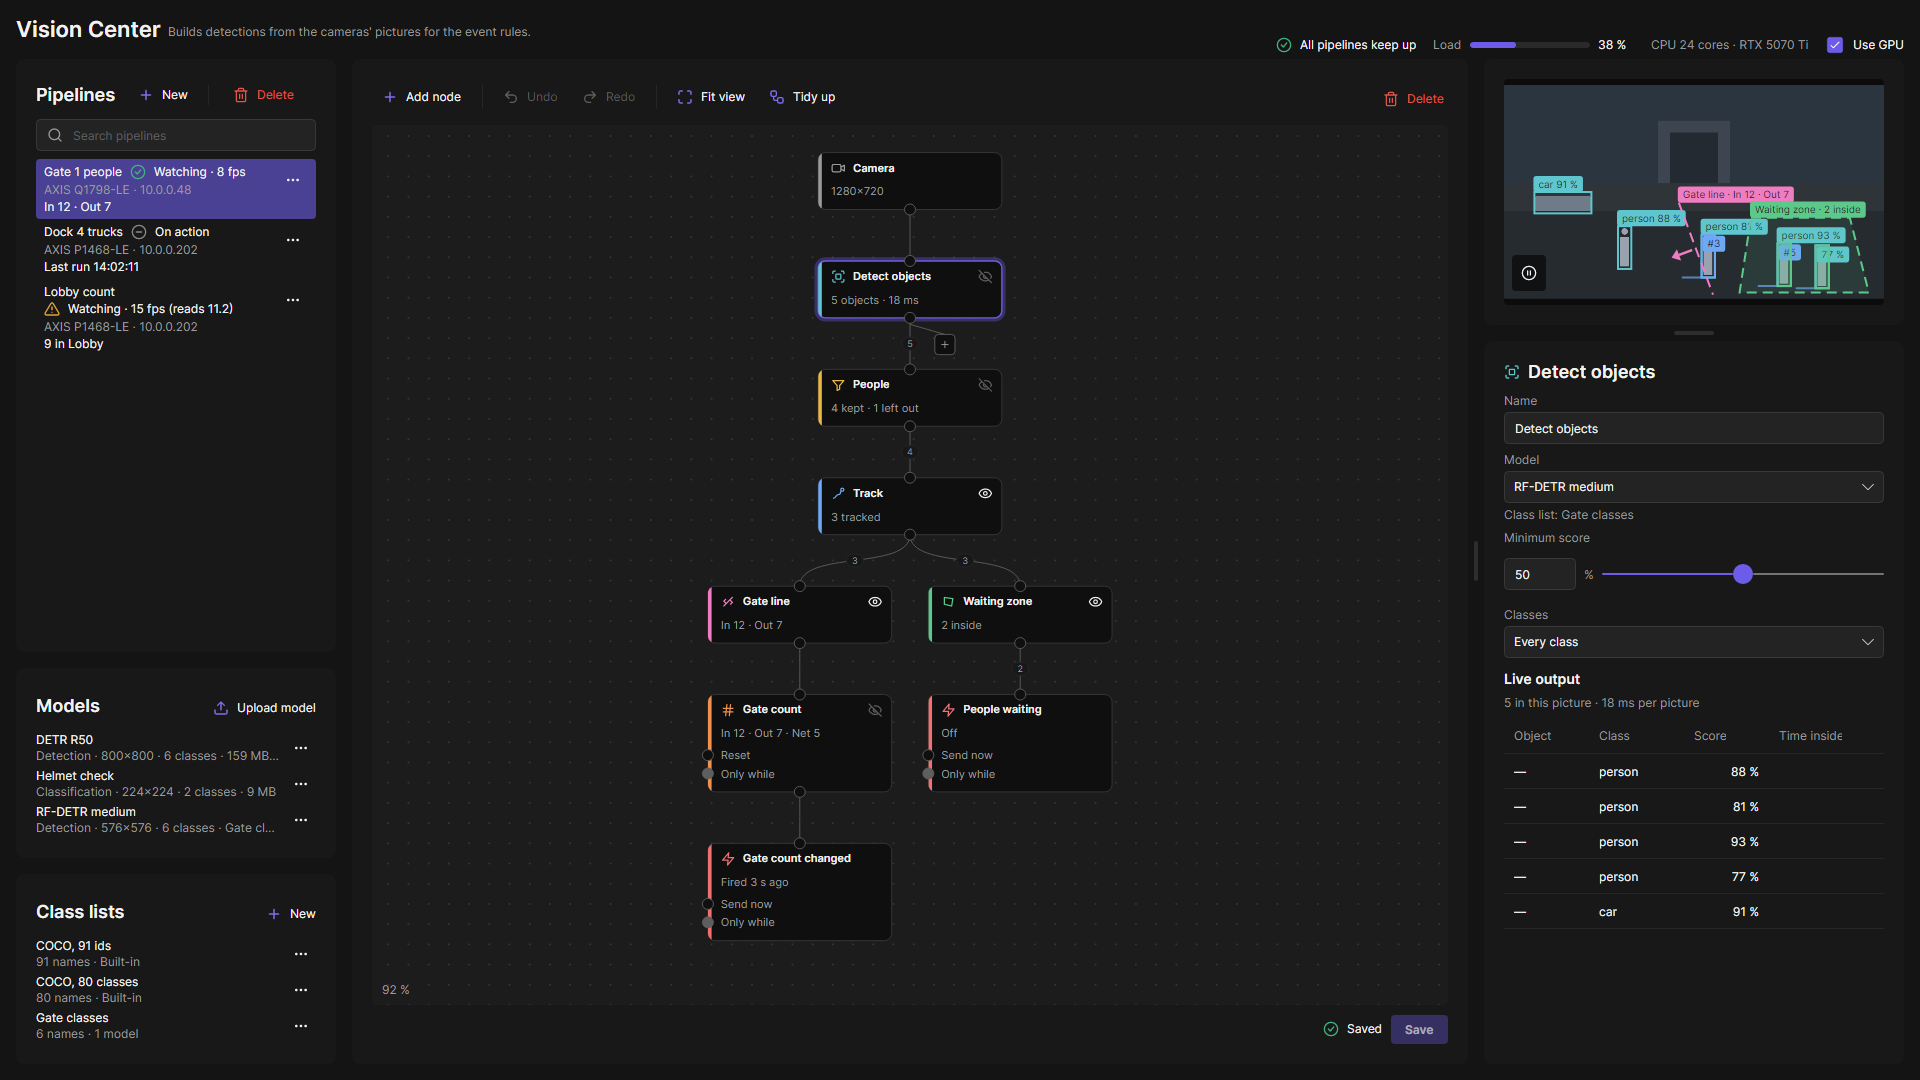
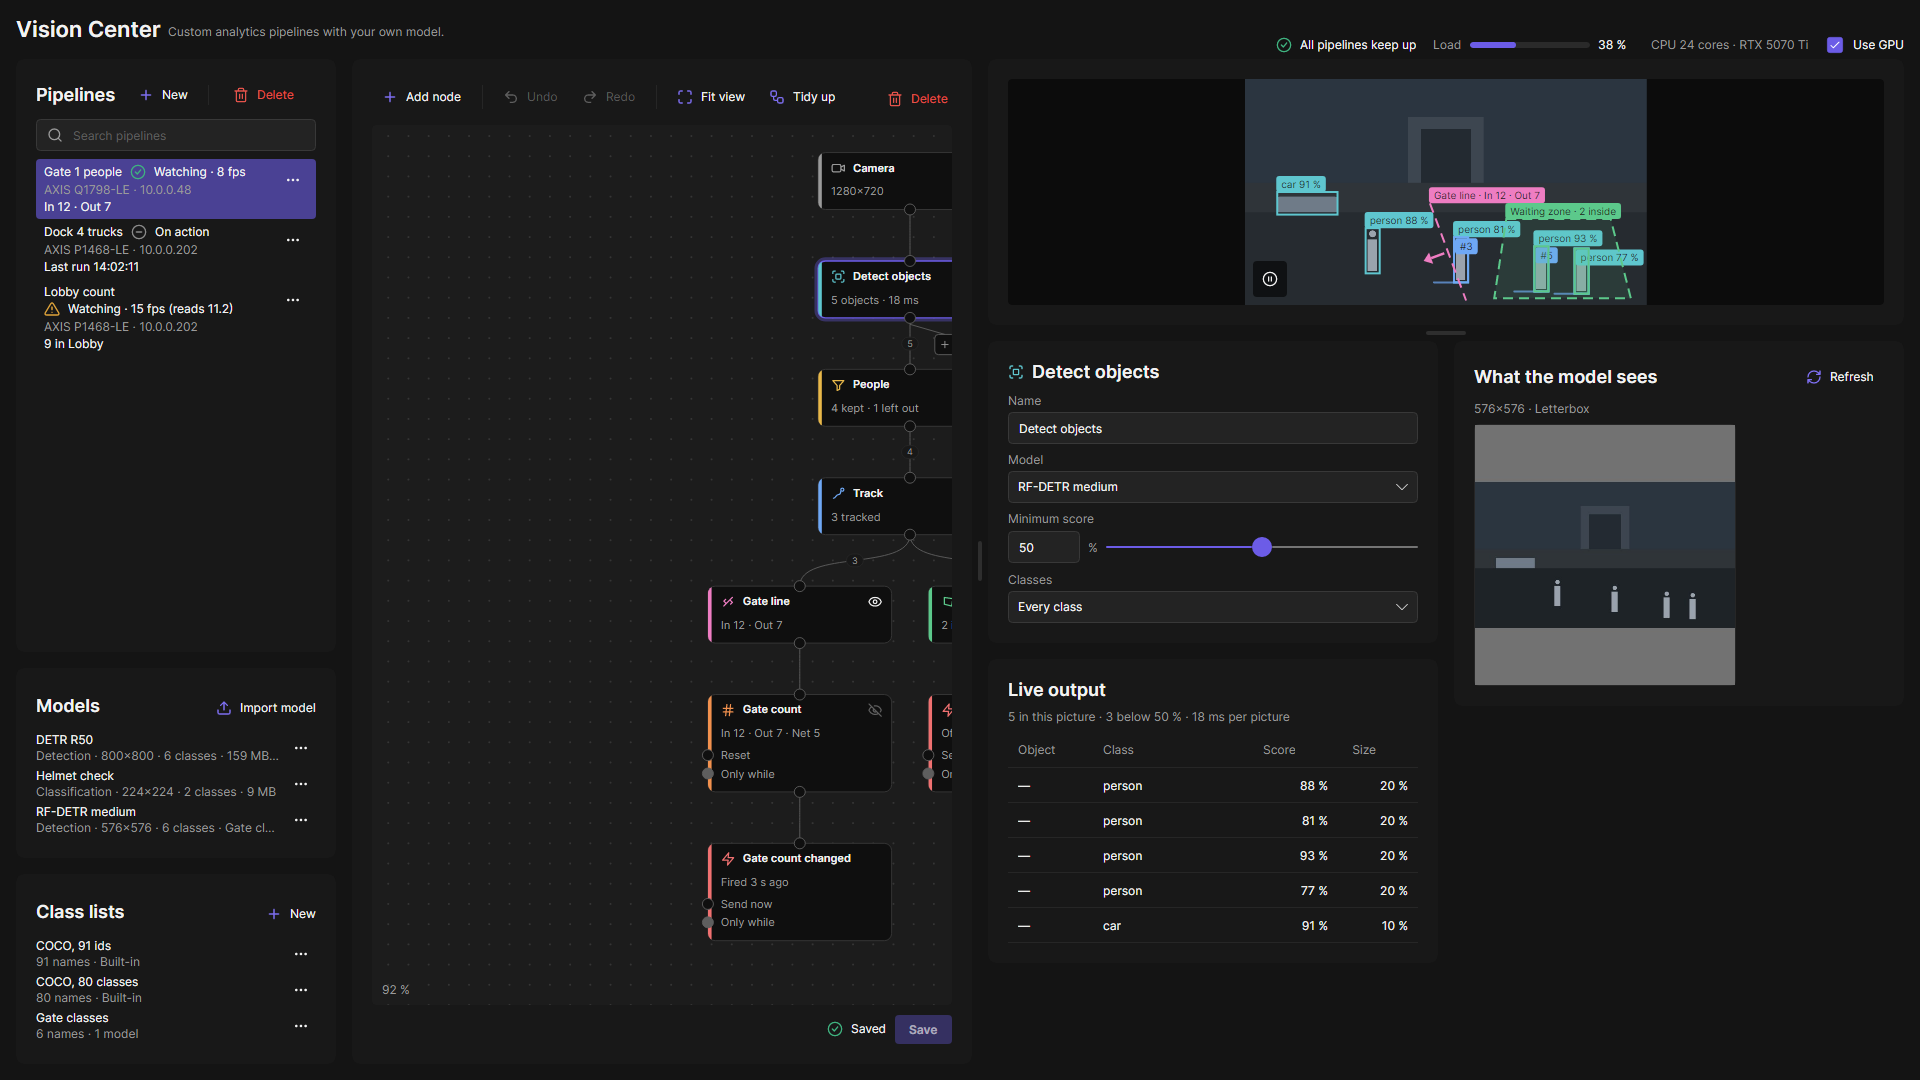
feat(vision): node panel as cards that use the width, fields flow instead of growing; Detect objects counts the objects below its minimum score in the preview

diff --git a/src/Oadm.Sdk.Client/Controls/FlowColumns.cs b/src/Oadm.Sdk.Client/Controls/FlowColumns.cs
@@ -1,0 +1,147 @@
+using Avalonia;
+using Avalonia.Controls;
+
+namespace Oadm.Sdk.Client.Controls;
+
+/// <summary>How <see cref="FlowColumns"/> places its children.</summary>
+public enum FlowPacking
+{
+    /// <summary>Row by row, left to right (form fields: the reading order stays).</summary>
+    Rows,
+
+    /// <summary>Each child into the shortest column (cards of different heights, no gaps).</summary>
+    Columns,
+}
+
+/// <summary>
+/// A panel that uses the width it gets instead of stretching its children: as many equal columns as fit
+/// <see cref="MinColumnWidth"/> (at most <see cref="MaxColumns"/>, never more than the visible children), each child as wide as
+/// its column. A narrow place gives one column, a wide one several, like a flex wrap. Invisible children take no room.
+/// Used by the node panel of Vision Center (its cards, and the fields in its forms).
+/// </summary>
+public sealed class FlowColumns : Panel
+{
+    public static readonly StyledProperty<double> MinColumnWidthProperty =
+        AvaloniaProperty.Register<FlowColumns, double>(nameof(MinColumnWidth), 320);
+
+    public static readonly StyledProperty<int> MaxColumnsProperty =
+        AvaloniaProperty.Register<FlowColumns, int>(nameof(MaxColumns), 4);
+
+    public static readonly StyledProperty<double> ColumnSpacingProperty =
+        AvaloniaProperty.Register<FlowColumns, double>(nameof(ColumnSpacing), 12);
+
+    public static readonly StyledProperty<double> RowSpacingProperty =
+        AvaloniaProperty.Register<FlowColumns, double>(nameof(RowSpacing), 8);
+
+    public static readonly StyledProperty<FlowPacking> PackingProperty =
+        AvaloniaProperty.Register<FlowColumns, FlowPacking>(nameof(Packing));
+
+    static FlowColumns() =>
+        AffectsMeasure<FlowColumns>(MinColumnWidthProperty, MaxColumnsProperty, ColumnSpacingProperty, RowSpacingProperty, PackingProperty);
+
+    /// <summary>A column is never narrower than this (unless the whole panel is).</summary>
+    public double MinColumnWidth
+    {
+        get => GetValue(MinColumnWidthProperty);
+        set => SetValue(MinColumnWidthProperty, value);
+    }
+
+    public int MaxColumns
+    {
+        get => GetValue(MaxColumnsProperty);
+        set => SetValue(MaxColumnsProperty, value);
+    }
+
+    public double ColumnSpacing
+    {
+        get => GetValue(ColumnSpacingProperty);
+        set => SetValue(ColumnSpacingProperty, value);
+    }
+
+    public double RowSpacing
+    {
+        get => GetValue(RowSpacingProperty);
+        set => SetValue(RowSpacingProperty, value);
+    }
+
+    public FlowPacking Packing
+    {
+        get => GetValue(PackingProperty);
+        set => SetValue(PackingProperty, value);
+    }
+
+    /// <summary>The number of columns at <paramref name="width"/> for <paramref name="visible"/> children.</summary>
+    public static int ColumnsFor(double width, double minColumnWidth, double spacing, int maxColumns, int visible)
+    {
+        if (visible <= 1 || double.IsInfinity(width) || double.IsNaN(width))
+        {
+            return 1;
+        }
+
+        var fit = (int)Math.Floor((width + spacing) / (Math.Max(1, minColumnWidth) + spacing));
+        return Math.Clamp(fit, 1, Math.Max(1, Math.Min(maxColumns, visible)));
+    }
+
+    protected override Size MeasureOverride(Size availableSize) => Layout(availableSize, arrange: false);
+
+    protected override Size ArrangeOverride(Size finalSize)
+    {
+        Layout(finalSize, arrange: true);
+        return finalSize;
+    }
+
+    private Size Layout(Size size, bool arrange)
+    {
+        var visible = Children.Where(c => c.IsVisible).ToList();
+        var columns = ColumnsFor(size.Width, MinColumnWidth, ColumnSpacing, MaxColumns, visible.Count);
+        var width = double.IsInfinity(size.Width)
+            ? double.PositiveInfinity
+            : Math.Max(0, (size.Width - (ColumnSpacing * (columns - 1))) / columns);
+        var heights = new double[columns];
+        var widest = 0.0;
+        var rowTop = 0.0;
+        var rowHeight = 0.0;
+        for (var i = 0; i < visible.Count; i++)
+        {
+            var child = visible[i];
+            if (!arrange)
+            {
+                child.Measure(new Size(width, double.PositiveInfinity));
+            }
+
+            var desired = child.DesiredSize;
+            widest = Math.Max(widest, desired.Width);
+            int column;
+            double top;
+            if (Packing == FlowPacking.Columns)
+            {
+                column = Array.IndexOf(heights, heights.Min());
+                top = heights[column] == 0 ? 0 : heights[column] + RowSpacing;
+                heights[column] = top + desired.Height;
+            }
+            else
+            {
+                column = i % columns;
+                if (column == 0 && i > 0)
+                {
+                    rowTop += rowHeight + RowSpacing;
+                    rowHeight = 0;
+                }
+
+                top = rowTop;
+                rowHeight = Math.Max(rowHeight, desired.Height);
+                heights[column] = rowTop + rowHeight;
+            }
+
+            if (arrange)
+            {
+                var x = column * ((double.IsInfinity(width) ? desired.Width : width) + ColumnSpacing);
+                child.Arrange(new Rect(x, top, double.IsInfinity(width) ? desired.Width : width, desired.Height));
+            }
+        }
+
+        var total = visible.Count == 0 ? 0 : heights.Max();
+        var used = double.IsInfinity(size.Width) ? widest : size.Width;
+        return new Size(visible.Count == 0 ? 0 : used, total);
+    }
+}

diff --git a/plugins/Oadm.Plugins.Vision/Nodes/ModelNodes.cs b/plugins/Oadm.Plugins.Vision/Nodes/ModelNodes.cs
@@ -25,30 +25,42 @@ internal sealed class DetectNode : VisionNode
     /// <summary>The model it runs on the whole picture (the frame is decoded only as large as its input needs).</summary>
     public VisionModel Model => _model;
 
-    public DetectNode(PipelineNode node, PortKind? input, VisionModel model) : base(node, NodeKinds.DetectKind, input)
+    /// <param name="countBelow">The page's preview: the model call goes down to <see cref="VisionLimits.BelowScoreFloor"/>
+    /// and the output counts the objects below the minimum score (saved pipelines never do: no extra work).</param>
+    public DetectNode(PipelineNode node, PortKind? input, VisionModel model, bool countBelow = false) : base(node, NodeKinds.DetectKind, input)
     {
         _model = model;
         _minScore = (NodeSettings.Number(VisionGraph.Setting(node, NodeKinds.MinScoreKey)) ?? 50) / 100;
         _classes = NodeKindsSettings.ClassSet(node);
+        _floor = countBelow ? Math.Min(_minScore, VisionLimits.BelowScoreFloor) : _minScore;
+        _countBelow = countBelow;
     }
+
+    private readonly double _floor;
+    private readonly bool _countBelow;
 
     /// <summary>The model call on the frame's picture, measured (also started early, before the frame's turn).</summary>
     public Task<(IReadOnlyList<Detection> Detections, double Ms)> CallAsync(FrameContext frame) =>
-        MeasureAsync(frame, _model, () => frame.Inference.DetectAsync(_model, frame.Frame, _minScore, frame.Ct));
+        MeasureAsync(frame, _model, () => frame.Inference.DetectAsync(_model, frame.Frame, _floor, frame.Ct));
 
     public override async ValueTask<NodeOutput> RunAsync(NodeOutput? input, FrameContext frame)
     {
         var call = frame.Prefetched?.GetValueOrDefault(Id) ?? CallAsync(frame);
         var (detections, ms) = await call.ConfigureAwait(false);
         var objects = new List<VisionObject>(Math.Min(detections.Count, VisionLimits.MaxObjects));
+        var below = 0;
         foreach (var d in detections)
         {
-            if (objects.Count >= VisionLimits.MaxObjects)
+            if (_classes is not null && !_classes.Contains(d.ClassName))
             {
-                break;
+                continue;
             }
 
-            if (d.Score >= _minScore && (_classes is null || _classes.Contains(d.ClassName)))
+            if (d.Score < _minScore)
+            {
+                below++;
+            }
+            else if (objects.Count < VisionLimits.MaxObjects)
             {
                 objects.Add(new VisionObject { Detection = d });
             }
@@ -59,6 +71,7 @@ internal sealed class DetectNode : VisionNode
             NodeId = Id,
             Kind = PortKind.Objects,
             Objects = objects,
+            Below = _countBelow ? below : null,
             Milliseconds = ms,
             Live = LiveText.Objects(objects.Count) + LiveText.Ms(ms),
         };

diff --git a/tests/Oadm.Plugins.Vision.Tests/Client/PageScreenshotTests.cs b/tests/Oadm.Plugins.Vision.Tests/Client/PageScreenshotTests.cs
@@ -97,11 +97,25 @@ public sealed class PageScreenshotTests
                 Headless.Pump();
                 Assert.True(view.FindControl<DataGrid>("ObjectsGrid")!.IsEffectivelyVisible);
                 Assert.Equal(5, editor.Output.Objects.Count);
+                Assert.Equal("5 in this picture · 3 below 50 % · 18 ms per picture", editor.Output.Summary);
                 await editor.ModelView.ReadAsync();
                 Headless.Pump();
                 Assert.True(view.FindControl<Border>("ModelViewPicture")!.IsEffectivelyVisible);
                 Assert.Equal("576x576 · Letterbox", editor.ModelView.Caption);
                 Headless.Capture(window, $"vision-page-detect-{suffix}.png");
+
+                // A wide right column: the cards side by side, the fields at their width instead of grown.
+                var narrow = view.RightWidth;
+                view.SetRightWidth(narrow + 700);
+                window.UpdateLayout();
+                Headless.Pump();
+                var formCard = view.FindControl<Border>("NodeFormCard")!;
+                var outputCard = view.FindControl<Border>("OutputCard")!;
+                Assert.True(view.FindControl<Border>("ModelViewCard")!.Bounds.X > formCard.Bounds.X || outputCard.Bounds.X > formCard.Bounds.X, "a card sits beside the form");
+                Headless.Capture(window, $"vision-page-detect-wide-{suffix}.png");
+                view.SetRightWidth(narrow);
+                window.UpdateLayout();
+                Headless.Pump();
 
                 // Nothing selected: the pipeline's own settings.
                 editor.Canvas.ClearSelection();

diff --git a/tests/Oadm.Plugins.Vision.Tests/Nodes/PipelineEvaluatorTests.cs b/tests/Oadm.Plugins.Vision.Tests/Nodes/PipelineEvaluatorTests.cs
@@ -192,6 +192,36 @@ public sealed class PipelineEvaluatorTests
         Assert.Equal("1 object", r.Nodes[filter].Live);
     }
 
+    // The page's preview counts the objects of the chosen classes below the minimum score, down to 10 %; a saved pipeline asks
+    // the model only for its minimum score and counts nothing.
+    [Theory]
+    [InlineData(true)]
+    [InlineData(false)]
+    public async Task Detect_in_the_preview_counts_the_objects_below_its_minimum_score(bool preview)
+    {
+        var b = new PipelineBuilder();
+        var camera = b.Add(NodeKinds.Camera);
+        var detect = b.After(camera, NodeKinds.Detect, PipelineBuilder.DetectSettings(50, "person"), show: true);
+        var h = new EvaluatorHarness(b.Build(), allNodes: preview);
+        var r = await h.RunAsync(0,
+            Det.Person(0.2, 0.9, 0.9),
+            Det.Person(0.4, 0.9, 0.3),   // below
+            Det.Person(0.6, 0.9, 0.12),  // below
+            Det.Person(0.8, 0.9, 0.05),  // under 10 %: not counted
+            Det.Car(0.5, 0.5, 0.3));     // another class
+        Assert.Single(r.Nodes[detect].Objects);
+        if (preview)
+        {
+            Assert.Equal(VisionLimits.BelowScoreFloor, h.Inference.MinScores[0], 9);
+            Assert.Equal(2, r.Nodes[detect].Below);
+        }
+        else
+        {
+            Assert.Equal(0.5, h.Inference.MinScores[0], 9);
+            Assert.Null(r.Nodes[detect].Below);
+        }
+    }
+
     [Fact]
     public async Task Detect_keeps_its_classes_and_shows_count_and_time()
     {

diff --git a/plugins/Oadm.Plugins.Vision.Client/NodeOutputViewModel.cs b/plugins/Oadm.Plugins.Vision.Client/NodeOutputViewModel.cs
@@ -169,11 +169,16 @@ public sealed partial class NodeOutputViewModel : ObservableObject
                 HasRows = Objects.Count > 0;
                 Summary = output is null ? VisionTexts.NothingYet
                     : output.Label is { } label && objects.Count == 0 ? $"{label.ClassName} {VisionTexts.Score(label.Score)}"
-                    : VisionTexts.InThisPicture(objects.Count, output.Milliseconds, node.Kind == NodeKinds.Filter ? output.Dropped.Count : null)
+                    : VisionTexts.InThisPicture(objects.Count, output.Milliseconds, node.Kind == NodeKinds.Filter ? output.Dropped.Count : null,
+                        output.Below, MinScoreOf(node))
                         + (node.Kind == NodeKinds.Filter ? VisionTexts.Sizes([.. objects.Concat(output.Dropped).Select(o => o.Detection.Box.Height)]) : string.Empty);
                 break;
         }
     }
+
+    /// <summary>A Detect objects node's minimum score in percent (50 when not set).</summary>
+    private static int? MinScoreOf(NodeViewModel node) =>
+        node.Kind == NodeKinds.Detect ? (int)Math.Round(Oadm.Plugins.Vision.Graph.NodeSettings.Number(node.Settings[NodeKinds.MinScoreKey]) ?? 50) : null;
 
     private void Note(string text)
     {

diff --git a/plugins/Oadm.Plugins.Vision.Client/VisionTexts.cs b/plugins/Oadm.Plugins.Vision.Client/VisionTexts.cs
@@ -302,10 +302,15 @@ public static class VisionTexts
             : string.Create(CultureInfo.InvariantCulture, $" · Sizes {low} to {high} %");
     }
 
-    /// <summary>The live output's first line: "5 in this picture · 18 ms per picture · 2 left out".</summary>
-    public static string InThisPicture(int count, double? ms, int? dropped)
+    /// <summary>The live output's first line: "5 in this picture · 3 below 50 % · 18 ms per picture · 2 left out".</summary>
+    public static string InThisPicture(int count, double? ms, int? dropped, int? below = null, int? minScore = null)
     {
         var text = string.Create(CultureInfo.InvariantCulture, $"{count} in this picture");
+        if (below is { } b && minScore is { } min)
+        {
+            text += string.Create(CultureInfo.InvariantCulture, $" · {b} below {min} %");
+        }
+
         if (ms is { } m)
         {
             text += string.Create(CultureInfo.InvariantCulture, $" · {Math.Round(m)} ms per picture");

diff --git a/plugins/Oadm.Plugins.Vision.Client/VisionView.axaml.cs b/plugins/Oadm.Plugins.Vision.Client/VisionView.axaml.cs
@@ -41,6 +41,15 @@ public static class PageLayout
     /// <summary>The node card's least height: its heading and two fields (measured with the headless page).</summary>
     public const double NodeMinHeight = 210;
 
+    /// <summary>Below the video the cards sit side by side once each gets this width (one column at the least width).</summary>
+    public const double NodeCardMinWidth = 380;
+
+    /// <summary>The fields in a node's card flow into columns of at least this width instead of growing.</summary>
+    public const double FieldMinWidth = 260;
+
+    /// <summary>The gap between the cards below the video (the splitter's height, the gap of every card).</summary>
+    public const double CardGap = 16;
+
     /// <summary>
     /// The limits of the canvas card and the right column in a page of <paramref name="width"/> (the splitter of
     /// <paramref name="splitter"/> between them), in this order when they do not all fit: the canvas keeps its minimum, then the

diff --git a/tests/Oadm.Plugins.Vision.Tests/Client/PageSamples.cs b/tests/Oadm.Plugins.Vision.Tests/Client/PageSamples.cs
@@ -322,7 +322,7 @@ internal static class PageSamples
             Nodes =
             [
                 new() { NodeId = "a", Kind = PortKind.Picture, Live = "1280x720" },
-                new() { NodeId = "b", Kind = PortKind.Objects, Objects = [.. people, Car], Milliseconds = 18, Live = "5 objects · 18 ms" },
+                new() { NodeId = "b", Kind = PortKind.Objects, Objects = [.. people, Car], Below = 3, Milliseconds = 18, Live = "5 objects · 18 ms" },
                 new() { NodeId = "c", Kind = PortKind.Objects, Objects = people, Dropped = [Car], Live = "4 kept · 1 left out" },
                 new() { NodeId = "d", Kind = PortKind.TrackedObjects, Objects = tracked, Live = "3 tracked" },
                 new() { NodeId = "e", Kind = PortKind.Crossings, Crossings = [crossing], In = 12, Out = 7, Live = "In 12 · Out 7" },

diff --git a/plugins/Oadm.Plugins.Vision/Nodes/PipelineEvaluator.cs b/plugins/Oadm.Plugins.Vision/Nodes/PipelineEvaluator.cs
@@ -239,7 +239,7 @@ internal sealed class Evaluator : IPipelineEvaluator
                 NodeKinds.Timer => new TimerNode(node),
                 NodeKinds.TimeWindow => new TimeWindowNode(node),
                 NodeKinds.DeviceEvent => new DeviceEventNode(node),
-                NodeKinds.Detect => new DetectNode(node, input, Model(node, findModel)),
+                NodeKinds.Detect => new DetectNode(node, input, Model(node, findModel), options.AllNodes),
                 NodeKinds.Classify => new ClassifyNode(node, input, Model(node, findModel), keep),
                 NodeKinds.Filter => new FilterNode(node, input),
                 NodeKinds.Track => new TrackNode(node, input),

diff --git a/plugins/Oadm.Plugins.Vision/Model/Evaluation.cs b/plugins/Oadm.Plugins.Vision/Model/Evaluation.cs
@@ -38,6 +38,12 @@ public sealed record NodeOutput
     /// <summary>The objects it gives (Detect, Classify, Filter, Track, Area).</summary>
     public IReadOnlyList<VisionObject> Objects { get; init; } = [];
 
+    /// <summary>
+    /// Detect objects in the page's preview: the objects of the chosen classes below the minimum score, down to
+    /// <see cref="VisionLimits.BelowScoreFloor"/> (the page shows "3 below 50 %"); null elsewhere.
+    /// </summary>
+    public int? Below { get; init; }
+
     /// <summary>Filter: the objects it left out (drawn dashed).</summary>
     public IReadOnlyList<VisionObject> Dropped { get; init; } = [];
 

diff --git a/tests/Oadm.Plugins.Vision.Tests/Client/PageViewModelTests.cs b/tests/Oadm.Plugins.Vision.Tests/Client/PageViewModelTests.cs
@@ -209,7 +209,7 @@ public sealed class PageViewModelTests
         editor.Canvas.SelectedNode = editor.Canvas.Find("b");
         Assert.True(editor.Output.IsObjects);
         Assert.Equal(5, editor.Output.Objects.Count);
-        Assert.Equal("5 in this picture · 18 ms per picture", editor.Output.Summary);
+        Assert.Equal("5 in this picture · 3 below 50 % · 18 ms per picture", editor.Output.Summary);
 
         editor.Canvas.SelectedNode = editor.Canvas.Find("e");
         Assert.True(editor.Output.IsCrossings);

diff --git a/plugins/Oadm.Plugins.Vision/Model/VisionLimits.cs b/plugins/Oadm.Plugins.Vision/Model/VisionLimits.cs
@@ -34,6 +34,9 @@ public static class VisionLimits
     /// <summary>The margin around a box for Classify: a share of its size.</summary>
     public const double ClassifyMargin = 0.10;
 
+    /// <summary>The lowest score the preview's Detect objects counts as "below the minimum score" (10 %).</summary>
+    public const double BelowScoreFloor = 0.10;
+
     public const int MaxModels = 20;
 
     public const long MaxModelBytes = 500L * 1024 * 1024;
